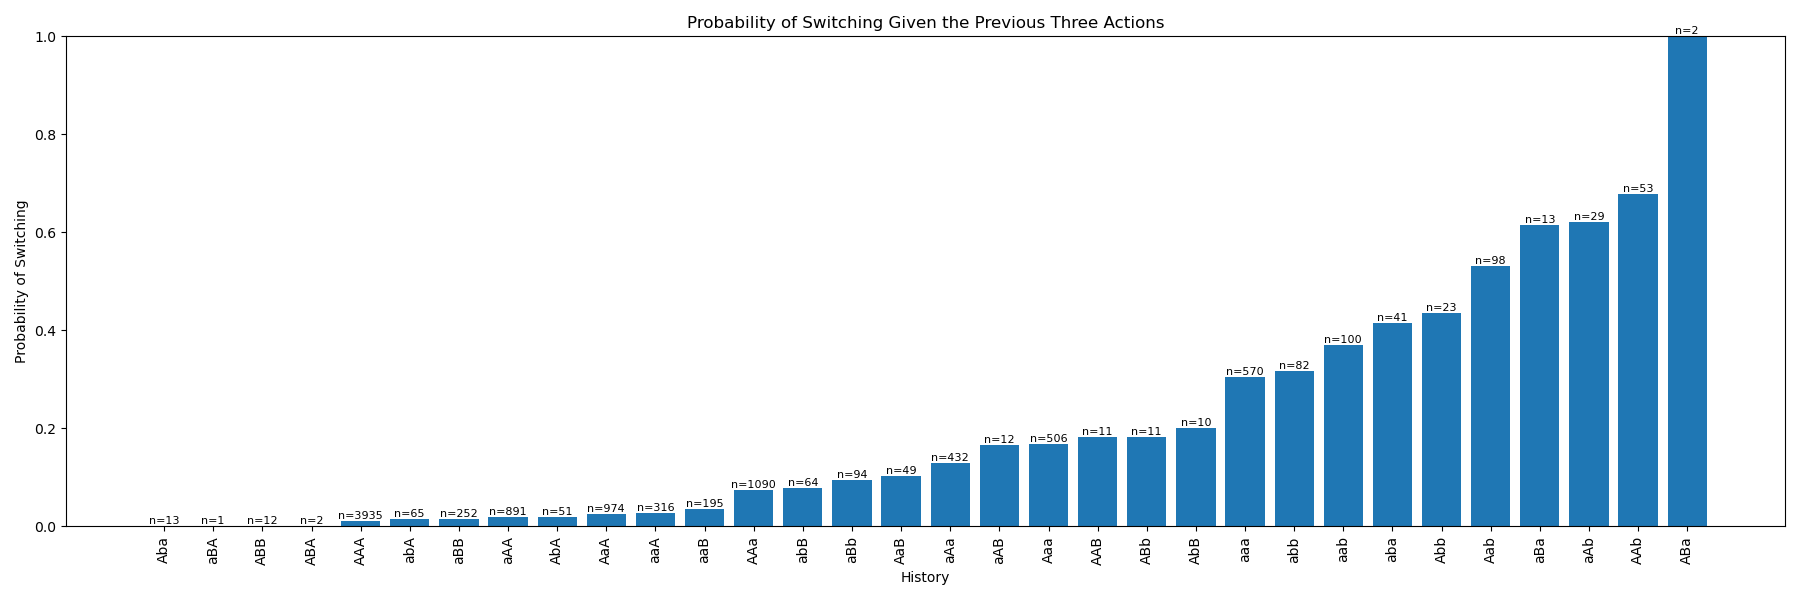
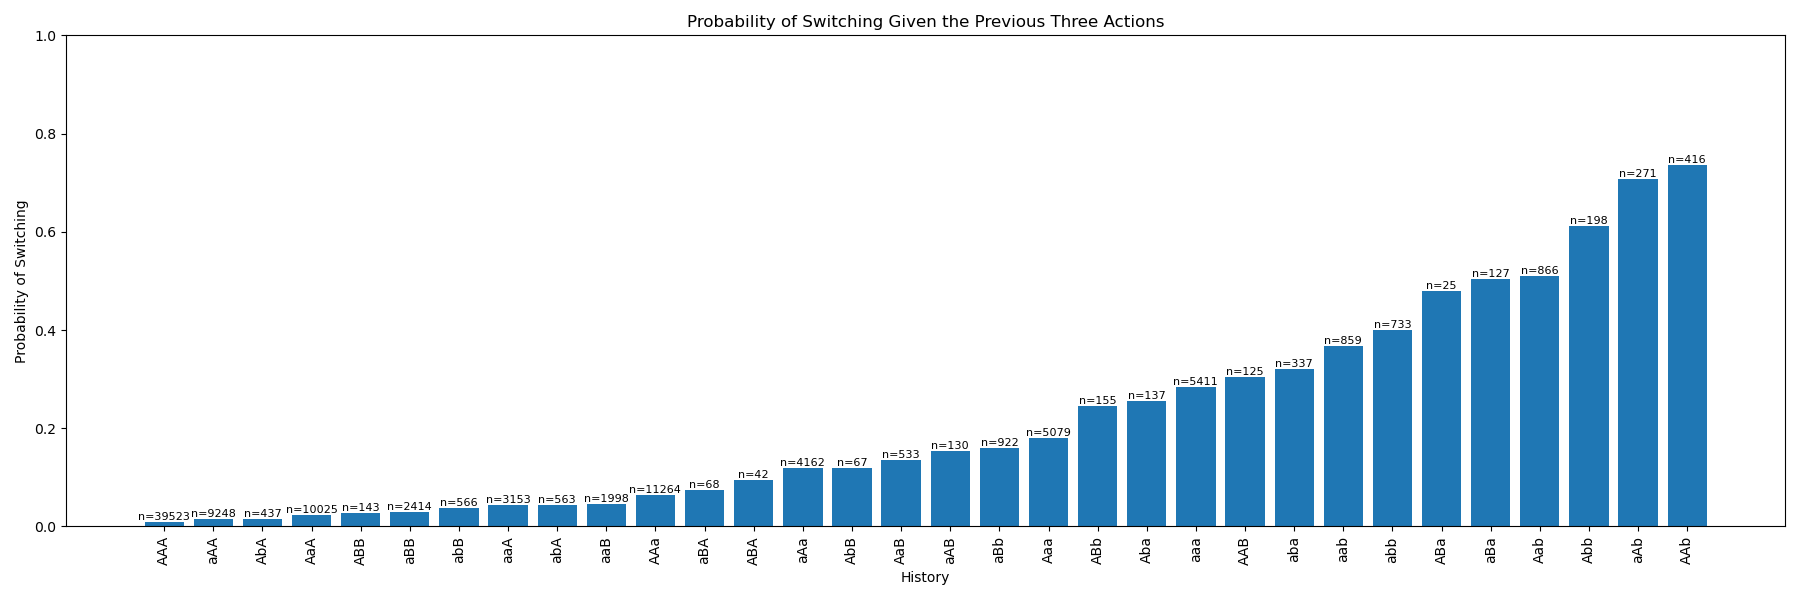
more stff

diff --git a/evaluation/fast_graphs.py b/evaluation/fast_graphs.py
@@ -1,0 +1,244 @@
+import matplotlib.pyplot as plt
+import numpy as np
+import pandas as pd
+
+def parse_file(filename):
+    """
+    Parse the data file to extract relevant information and store it in a pandas DataFrame.
+
+    Args:
+    - filename (str): The file path of the data file.
+
+    Returns:
+    - df (DataFrame): A DataFrame containing all the parsed event data.
+    """
+    data = []
+    last_choice = None
+    current_state = 0  # Default starting state; 0 for left, 1 for right
+    trial_number = 0
+    block_position = 0
+    swap_trials = []
+    max_pre_swap = 10
+
+    with open(filename, 'r') as file:
+        tokens = []
+        for line in file:
+            tokens.extend(line.strip())
+
+    # Process tokens
+    for token in tokens:
+        if token == 'O':  # Start state
+            current_state = 1  # High-reward spout is on the right
+            block_position = 0
+            swap_trials.append(trial_number)
+        elif token == 'S':  # Swap occurred
+            current_state = 1 - current_state
+            block_position = 0
+            swap_trials.append(trial_number)
+        elif token in 'LlRr':
+            choice = 0 if token in 'Ll' else 1  # Left: 0, Right: 1
+            choice_str = 'L' if choice == 0 else 'R'
+            reward = 1 if token.isupper() else 0
+            rewarded = bool(reward)
+            selected_high = 1 if choice == current_state else 0
+            switch = 1 if last_choice is not None and choice != last_choice else 0
+
+            data.append({
+                'trial_number': trial_number,
+                'choice': choice,
+                'choice_str': choice_str,
+                'reward': reward,
+                'rewarded': rewarded,
+                'selected_high': selected_high,
+                'switch': switch,
+                'swap': 1 if trial_number in swap_trials else 0,
+                'block_position': block_position
+            })
+
+            last_choice = choice
+            trial_number += 1
+            block_position += 1
+
+    # Create DataFrame
+    df = pd.DataFrame(data)
+
+    # Adjust block positions for trials before each swap
+    for swap_trial in swap_trials:
+        idx_range = range(max(0, swap_trial - max_pre_swap), swap_trial)
+        df.loc[df['trial_number'].isin(idx_range), 'block_position'] = df.loc[df['trial_number'].isin(idx_range), 'trial_number'] - swap_trial
+
+    return df
+
+def calculate_probabilities(df):
+    """
+    Calculate probabilities for high-reward selection and switching around block transitions using vectorization.
+
+    Args:
+    - df (DataFrame): The parsed events from the data file.
+
+    Returns:
+    - block_positions (list): Block positions relative to swaps.
+    - high_reward_prob (list): Probability of selecting the high-reward port.
+    - switch_prob (list): Probability of switching sides.
+    """
+    block_positions = range(-10, 21)
+    df_filtered = df[df['block_position'].isin(block_positions)]
+
+    # Group by block_position
+    grouped = df_filtered.groupby('block_position')
+    high_reward_prob = grouped['selected_high'].mean()
+    switch_prob = grouped['switch'].mean()
+
+    # Align results with block_positions
+    high_reward_prob = high_reward_prob.reindex(block_positions).tolist()
+    switch_prob = switch_prob.reindex(block_positions).tolist()
+
+    return block_positions, high_reward_prob, switch_prob
+
+def plot_probabilities(block_positions, high_reward_prob, switch_prob, prefix=''):
+    """
+    Plot the probabilities of high-reward selection and switching relative to block positions.
+
+    Args:
+    - block_positions (list): Block positions relative to swaps.
+    - high_reward_prob (list): Probability of selecting the high-reward port.
+    - switch_prob (list): Probability of switching sides.
+    - prefix (str): Prefix for the saved plot filenames.
+    """
+    # Probability of Selecting High-Reward Port
+    plt.figure(figsize=(10, 5))
+    plt.plot(block_positions, high_reward_prob, marker='o', color='blue')
+    plt.axvline(0, color='black', linestyle='--')
+    plt.xlabel("Block Position")
+    plt.ylabel("P(high port)")
+    plt.title("Probability of Selecting High-Reward Port")
+    plt.ylim(0, 1)
+    plt.grid(True)
+    plt.tight_layout()
+    plt.savefig(f'{prefix}selecting_high_reward_port.png')
+    plt.close()
+
+    # Probability of Switching
+    plt.figure(figsize=(10, 5))
+    plt.plot(block_positions, switch_prob, marker='o', color='red')
+    plt.axvline(0, color='black', linestyle='--')
+    plt.xlabel("Block Position")
+    plt.ylabel("P(switch)")
+    plt.title("Probability of Switching")
+    plt.ylim(0, 1)
+    plt.grid(True)
+    plt.tight_layout()
+    plt.savefig(f'{prefix}switch_probabilities.png')
+    plt.close()
+
+def map_sequence_to_pattern(seq):
+    """
+    Map a sequence of three actions to a pattern.
+
+    Args:
+    - seq (DataFrame): A DataFrame slice with three events.
+
+    Returns:
+    - pattern (str): The mapped pattern string.
+    """
+    action1, action2, action3 = seq.iloc[0], seq.iloc[1], seq.iloc[2]
+    first_reward = 'A' if action1['rewarded'] else 'a'
+    first_choice = action1['choice_str']
+
+    def get_letter(action, first_choice):
+        same_side = action['choice_str'] == first_choice
+        reward_char = 'A' if action['rewarded'] else 'a'
+        return reward_char if same_side else reward_char.upper() if action['rewarded'] else reward_char.lower()
+
+    second_letter = get_letter(action2, first_choice)
+    third_letter = get_letter(action3, first_choice)
+    pattern = f"{first_reward}{second_letter}{third_letter}"
+    return pattern
+
+def calculate_switch_probabilities(df):
+    """
+    Calculate the probability of switching given the previous three actions.
+
+    Args:
+    - df (DataFrame): The DataFrame of events.
+
+    Returns:
+    - sorted_patterns (list): List of patterns sorted by ascending switch probability.
+    - sorted_probabilities (list): Corresponding switch probabilities.
+    - counts (list): Counts of each pattern.
+    """
+    patterns = []
+    switches = []
+
+    for i in range(len(df) - 3):
+        seq = df.iloc[i:i+3]
+        next_action = df.iloc[i+3]
+        pattern = map_sequence_to_pattern(seq)
+        switched = seq.iloc[2]['choice'] != next_action['choice']
+        patterns.append(pattern)
+        switches.append(int(switched))
+
+    df_patterns = pd.DataFrame({'pattern': patterns, 'switched': switches})
+    grouped = df_patterns.groupby('pattern')
+    probabilities = grouped['switched'].mean()
+    counts = grouped['switched'].count()
+
+    # Sort patterns
+    sorted_data = probabilities.sort_values().reset_index()
+    sorted_counts = counts.loc[sorted_data['pattern']].reset_index(drop=True)
+
+    sorted_patterns = sorted_data['pattern'].tolist()
+    sorted_probabilities = sorted_data['switched'].tolist()
+    counts = sorted_counts.tolist()
+
+    return sorted_patterns, sorted_probabilities, counts
+
+def plot_switch_probabilities(patterns, probabilities, counts, prefix=''):
+    """
+    Plot the switch probabilities as a bar chart.
+
+    Args:
+    - patterns (list): List of patterns.
+    - probabilities (list): Corresponding switch probabilities.
+    - counts (list): Counts of each pattern.
+    - prefix (str): Prefix for the saved plot filenames.
+    """
+    plt.figure(figsize=(18, 6))
+    bars = plt.bar(range(len(patterns)), probabilities, tick_label=patterns)
+
+    # Annotate counts
+    for bar, count in zip(bars, counts):
+        plt.text(bar.get_x() + bar.get_width()/2.0, bar.get_height(), f'n={count}', ha='center', va='bottom', fontsize=8)
+
+    plt.xlabel('History')
+    plt.ylabel('Probability of Switching')
+    plt.title('Probability of Switching Given the Previous Three Actions')
+    plt.xticks(rotation=90)
+    plt.ylim(0, 1)
+    plt.tight_layout()
+    plt.savefig(f'{prefix}conditional_switching.png')
+    plt.close()
+
+
+filename = "../data/2ABT_logistic_run_4.txt"  # Adjust the filename as needed
+
+# Parse the file and create DataFrame
+df = parse_file(filename)
+
+# Calculate and print the percent of trials with a switch
+total_trials = len(df) - 1  # Exclude the first trial
+total_switches = df['switch'].iloc[1:].sum()
+percent_switches = (total_switches / total_trials) * 100
+print(f"Percent of trials with a switch: {percent_switches:.2f}%")
+
+# Calculate probabilities
+block_positions, high_reward_prob, switch_prob = calculate_probabilities(df)
+
+# Plot probabilities
+plot_probabilities(block_positions, high_reward_prob, switch_prob, prefix="fast_rflr")
+
+# Calculate switch probabilities based on patterns
+patterns, probabilities, counts = calculate_switch_probabilities(df)
+
+# Plot switch probabilities
+plot_switch_probabilities(patterns, probabilities, counts, prefix="fast_rflr")

diff --git a/evaluation/graphs_on_trial_block_transitions.py b/evaluation/graphs_on_trial_block_transitions.py
@@ -281,8 +281,8 @@ ground_truth = True
 if ground_truth:
     rflr = 'rflr_'
 # Define the file path
-# filename = "../transformer/Preds_for_8_with_model_.txt"
-filename = "../data/2ABT_logistic_run_8.txt"
+# filename = "../transformer/Preds_for_2_with_model_90k.txt"
+filename = "../data/2ABT_logistic_run_2.txt"
 
 # Parse the file
 events = parse_file(filename)
